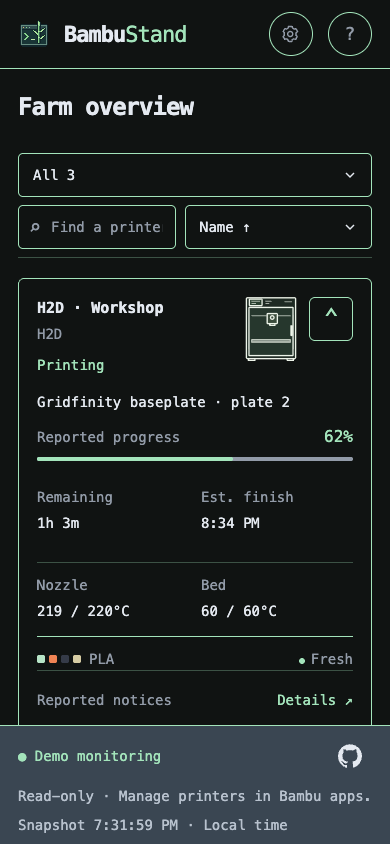
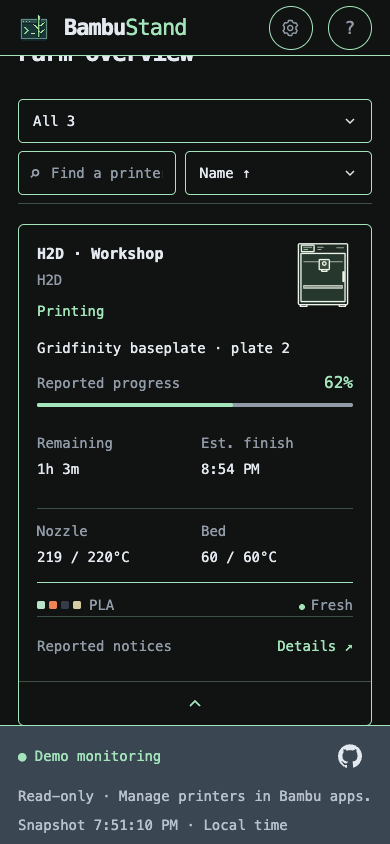
Move mobile card disclosure into a compact footer

diff --git a/internal/webserver/assets/app.js b/internal/webserver/assets/app.js
@@ -128,18 +128,18 @@ function card(p) {
   const action = (text, kind = "name") => `<button data-action="${kind}" data-open="${escapeHTML(p.id)}" aria-haspopup="dialog"${kind === "notices" ? ' data-notices="true"' : ''}>${text}</button>`;
   const expanded = expandedCards.has(p.id);
   const bodyID = `card-body-${encodeURIComponent(p.id)}`;
-  const toggle = `<button class="card-toggle" data-action="expand" data-open="${escapeHTML(p.id)}" aria-expanded="${expanded}" aria-controls="${escapeHTML(bodyID)} ${escapeHTML(bodyID)}-actions" aria-label="${expanded ? "Collapse" : "Expand"} ${escapeHTML(p.name)} card"><span aria-hidden="true">⌄</span></button>`;
-  const heading = `<div class="card-head"><div class="card-identity"><h3>${action(escapeHTML(p.name))}</h3><div class="model">${escapeHTML(p.model || "Unknown model")}</div><span class="pill ${p.attention || !current(p) ? "warn" : p.state === "IDLE" ? "neutral" : ""}">${escapeHTML(label)}</span></div><div class="printer-view">${machine(p)}</div>${toggle}</div>`;
+  const toggle = `<button class="card-toggle" data-action="expand" data-open="${escapeHTML(p.id)}" aria-expanded="${expanded}" aria-controls="${escapeHTML(bodyID)} ${escapeHTML(bodyID)}-actions" aria-label="${expanded ? "Collapse" : "Expand"} ${escapeHTML(p.name)} card"><svg viewBox="0 0 12 8" aria-hidden="true"><path d="m1 1 5 5 5-5"/></svg></button>`;
+  const heading = `<div class="card-head"><div class="card-identity"><h3>${action(escapeHTML(p.name))}</h3><div class="model">${escapeHTML(p.model || "Unknown model")}</div><span class="pill ${p.attention || !current(p) ? "warn" : p.state === "IDLE" ? "neutral" : ""}">${escapeHTML(label)}</span></div><div class="printer-view">${machine(p)}</div></div>`;
   const actions = `<div class="card-actions" id="${escapeHTML(bodyID)}-actions">${p.attention ? action('◇ Attention · view notices', 'notices') : `<span>${p.conditions.some(condition => !condition.hidden) ? 'Reported notices' : 'No active notices'}</span>`}${action('Details ↗', 'details')}</div>`;
   const opening = `<article class="card ${p.attention ? "warning" : ""}${offline ? " offline" : ""}${expanded ? " expanded" : ""}" data-id="${escapeHTML(p.id)}" tabindex="-1" aria-label="Inspect ${escapeHTML(p.name)}, ${escapeHTML(label)}">`;
-  if (offline) return `${opening}${heading}<div class="card-body" id="${escapeHTML(bodyID)}"></div>${actions}</article>`;
+  if (offline) return `${opening}${heading}<div class="card-body" id="${escapeHTML(bodyID)}"></div>${actions}${toggle}</article>`;
   const slots = allSlots(p).filter((s) => s.present !== false),
     nozzle = p.nozzles.find((n) => n.active) || p.nozzles[0];
   const progress = Number.isFinite(p.progress) ? Math.max(0, Math.min(100, p.progress)) : null;
   const idle = p.state === "IDLE";
   const finish = p.state === "RUNNING" && p.remaining != null && Number.isFinite(Date.parse(p.remaining_reported))
     ? new Date(Date.parse(p.remaining_reported) + p.remaining * 60000).toLocaleTimeString(undefined, {hour: "numeric", minute: "2-digit"}) : "Unavailable";
-  return `${opening}${heading}${!current(p) ? '<p class="card-note telemetry-note">Current state unconfirmed · readings are last-known; missing values remain unknown.</p>' : ""}<div class="card-body" id="${escapeHTML(bodyID)}"><div class="job">${idle ? "No active print" : escapeHTML(p.job || "No reported job")}</div>${idle ? "" : `<div class="progress-label"><span>Reported progress</span><strong>${progress === null ? "Unknown" : progress + "%"}</strong></div><div class="progress-track"><span style="width:${progress || 0}%"></span></div><div class="metrics timing"><div>Remaining<strong>${escapeHTML(remaining(p))}</strong></div><div>Est. finish<strong>${finish !== "Unavailable" && (!current(p) || !p.eta_current) ? "Last-known: " : ""}${escapeHTML(finish)}</strong></div></div>`}<div class="metrics"><div>Nozzle<strong>${temperature(nozzle?.temperature)}</strong></div><div>Bed<strong>${temperature(p.bed)}</strong></div></div><div class="card-bottom"><div class="swatches">${slots.slice(0, 4).map(s => swatch(s.color)).join("")}<span>${escapeHTML(slots[0]?.material || "Unknown material")}</span></div><span>${current(p) ? '<i class="green"></i>Fresh' : "◷ Last-known"}</span></div></div>${actions}</article>`;
+  return `${opening}${heading}${!current(p) ? '<p class="card-note telemetry-note">Current state unconfirmed · readings are last-known; missing values remain unknown.</p>' : ""}<div class="card-body" id="${escapeHTML(bodyID)}"><div class="job">${idle ? "No active print" : escapeHTML(p.job || "No reported job")}</div>${idle ? "" : `<div class="progress-label"><span>Reported progress</span><strong>${progress === null ? "Unknown" : progress + "%"}</strong></div><div class="progress-track"><span style="width:${progress || 0}%"></span></div><div class="metrics timing"><div>Remaining<strong>${escapeHTML(remaining(p))}</strong></div><div>Est. finish<strong>${finish !== "Unavailable" && (!current(p) || !p.eta_current) ? "Last-known: " : ""}${escapeHTML(finish)}</strong></div></div>`}<div class="metrics"><div>Nozzle<strong>${temperature(nozzle?.temperature)}</strong></div><div>Bed<strong>${temperature(p.bed)}</strong></div></div><div class="card-bottom"><div class="swatches">${slots.slice(0, 4).map(s => swatch(s.color)).join("")}<span>${escapeHTML(slots[0]?.material || "Unknown material")}</span></div><span>${current(p) ? '<i class="green"></i>Fresh' : "◷ Last-known"}</span></div></div>${actions}${toggle}</article>`;
 }
 // Keep connected card/image elements across polls. Replacing #cards.innerHTML
 // recreates lazy, async-decoded images even when their immutable URL is unchanged.

diff --git a/internal/webserver/assets/index.html b/internal/webserver/assets/index.html
@@ -185,7 +185,7 @@
         The Filament tab shows per-unit reported drying status and remaining minutes. Missing values stay unknown; old readings are last-known. Drying settings describe configuration, and the original AMS has no active dryer. Monitoring cannot start or stop drying.
       </p>
       <p>
-        Filters and sorting preserve your printer selection as updates arrive. The Active filter includes printers last reported as running, independently of availability. The Idle filter includes only currently available online printers explicitly reporting Idle or Finished. Offline, stale, missing, and unknown states are excluded; a finished job does not establish that the build plate is clear. Search matches printer names and models. Each status count reflects that search independently of the selected status. On narrow screens, use the Status selector. Cards start collapsed; use the arrow to expand inline readings or collapse them again. Expansion choices last for this page session, including updates, filtering, sorting, and resizing. Desktop shows full cards. Attention and unavailable-data warnings remain visible when collapsed; the printer name opens Overview.
+        Filters and sorting preserve your printer selection as updates arrive. The Active filter includes printers last reported as running, independently of availability. The Idle filter includes only currently available online printers explicitly reporting Idle or Finished. Offline, stale, missing, and unknown states are excluded; a finished job does not establish that the build plate is clear. Search matches printer names and models. Each status count reflects that search independently of the selected status. On narrow screens, use the Status selector. Cards start collapsed; use the small footer chevron to expand inline readings or collapse them again. Expansion choices last for this page session, including updates, filtering, sorting, and resizing. Desktop shows full cards. Attention and unavailable-data warnings remain visible when collapsed; the printer name opens Overview.
       </p>
       <p>
         Scrolling the farm compacts the header. The filter, search, and sort toolbar

diff --git a/internal/webserver/assets/style.css b/internal/webserver/assets/style.css
@@ -1422,12 +1422,12 @@ footer { gap: 8px 16px; padding: 8px 32px; font-size: .875rem; }
 .card-body { display: flex; flex-direction: column; min-width: 0; }
 .card-toggle { display: none; }
 @media (max-width: 760px) {
-  .card-head { grid-template-columns: minmax(0, 1fr) 60px 44px; gap: 8px; margin-bottom: 0; }
+  .card-head { grid-template-columns: minmax(0, 1fr) 60px; gap: 8px; margin-bottom: 0; }
   .card-head .printer-view, .card-head .printer-view .printer-sprite,
   .card-head .printer-view svg { width: 60px; height: 76px; }
-  .card-toggle { display: inline-flex; align-items: center; justify-content: center; min-width: 44px; min-height: 44px; padding: 0; background: none; border: 1px solid var(--border); border-radius: 6px; color: var(--green); }
-  .card-toggle span { font-size: 1.5rem; line-height: 1; }
-  .card.expanded .card-toggle span { transform: rotate(180deg); }
+  .card-toggle { display: inline-flex; align-items: center; justify-content: center; width: calc(100% + 36px); min-height: 44px; margin: 12px -18px -18px; padding: 0; background: none; border: 0; border-top: 1px solid color-mix(in srgb, var(--border) 30%, transparent); border-radius: 0 0 5px 5px; color: var(--green); }
+  .card-toggle svg { width: 12px; height: 8px; fill: none; stroke: currentColor; stroke-width: 2; }
+  .card.expanded .card-toggle svg { transform: rotate(180deg); }
   .card:not(.expanded) .card-body,
   .card:not(.expanded) .card-actions > span,
   .card:not(.expanded) [data-action="details"] { display: none; }

diff --git a/docs/development/validation.md b/docs/development/validation.md
@@ -7,11 +7,18 @@ This record identifies checks actually performed, their source revisions, observ
 Historical entries were consolidated from the [record at `2e9f74a`](https://github.com/cliffom/bambustand/blob/2e9f74a/docs/development/validation.md). Consolidation adds no new product validation. A local pass reported below is a historical report, not a retained test log or a rerun against the current release. Linked CI runs and repository captures are inspectable evidence; temporary capture paths and user-supplied screenshots without repository links were not archived here. Missing environment or revision details are stated rather than reconstructed. Historical names and compatibility results apply to the revision checked.
 
 
+## Mobile card footer refinement (#187)
+
+- **Scope:** 2026-11-13; v0.11.0 PR #188 follow-up to the owner's screenshot, with uncommitted changes based on `db8e7efecfa0`. Moves mobile disclosure from a boxed control beside the printer image to a full-width bottom footer with a small centered SVG chevron. Desktop stays unchanged.
+- **Method:** Same macOS 27.2.1, Go 1.27.4, Node 24.22.1, Playwright 1.64.1 and Chrome 157.0.8103.78 environment as the entry below; synthetic demo at port 8187. Reran 51 browser units, 36 layout cases plus two compact and four disclosure cases, twelve inspector cases, and 28 theme/layout combinations at the sizes/text settings listed below. Added assertions that the footer is the last card child, below the heading, centered across the card, with a 12×8px icon and at least a 44px tap height. Ran formatting, pinned lint, vet, build, release packaging, documentation and diff checks. Refreshed and visually inspected all four 390×844 mobile captures, including expanded footer visibility and the Gruvbox Dark finished card.
+- **Result:** All checks passed. The small chevron points down when collapsed and up when expanded; the unboxed footer retains keyboard focus, accessible labels/state, touch sizing, warnings and page-session expansion choices. Current captures: [overview](../../assets/screenshots/browser-mobile.png), [expanded footer](../../assets/screenshots/browser-mobile-expanded.png), [offline](../../assets/screenshots/browser-mobile-offline.png), [finished](../../assets/screenshots/browser-idle-filter-mobile.png). Earlier captures remain under `before-footer` names with historical links redirected. README, farm-view/usage guidance, browser Help, UI direction and changelog now describe the footer; desktop/theme/filter, cropped Settings/inspector and TUI captures remain accurate because they do not depict this mobile control. v0.11.0 remains prepared and unpublished; no additional version bump is needed.
+- **Limits:** Synthetic Chromium evidence only; other browsers, physical mobile devices and live hardware remain unverified. Full race tests and vulnerability scan passed on the prior implementation as recorded below; this refinement changes browser markup/style only. Packaging remains locally ad-hoc signed without notarization or Gatekeeper evidence. Temporary logs are unarchived; existing [remaining live checks](#remaining-live-checks) are unchanged.
+
 ## Mobile printer card disclosure (#187)
 
 - **Scope:** 2026-11-13; v0.11.0, uncommitted changes based on `dd52e549d139`. Mobile/narrow browser cards default to identity/status summaries with inline expansion; desktop presentation, telemetry interpretation, offline omissions and notice decisions retain their existing contracts.
 - **Method:** macOS 27.2.1 (26B131) arm64, Go 1.27.4, Node 24.22.1, Playwright 1.64.1 and Chrome 157.0.8103.78. Ran 51 dependency-free browser units, 36 existing layout cases plus two compact scenarios, four new disclosure scenarios (390×844, 760×844, 320×568/200%, 568×320/200%), twelve inspector cases, and 28 theme/layout combinations against synthetic `serve --demo` on port 8187. Disclosure checks cover running, idle, finished, attention, unknown/stale, offline, long names, generic artwork, keyboard activation, focus/image continuity, polling, filtering, sorting, resize and inspector entry. Ran `make fmt-check`, pinned lint, `make test check build vuln-check release`, `make docs-check`, version output and diff checks. Refreshed the three affected 390×844 gallery captures and added an expanded example with the documented capture command/filter; inspected all four. Also inspected temporary 320×568/200% collapsed and 568×320/200% expanded views, and a contact sheet of default/all five alternate desktop theme captures at 1280×1200.
-- **Result:** All listed checks passed; no lint findings or known vulnerabilities. Mobile summaries retain attention and unavailable-data warnings, and expansion remains local to printer identity within the page session. Four macOS/Linux arm64/amd64 archives passed inventory, documentation, helper architecture and signature checks; the binary reports 0.11.0. Initial lint stopped because the executable was absent; installing the pinned tool resolved it. Initial packaging rejected the new changelog heading's leading `v`; matching the repository heading format resolved it. Updated README, usage/farm-view guidance, browser Help, UI direction and contributor guidance. Current captures: [mobile overview](../../assets/screenshots/browser-mobile.png), [expanded](../../assets/screenshots/browser-mobile-expanded.png), [offline](../../assets/screenshots/browser-mobile-offline.png), [Gruvbox Dark Idle](../../assets/screenshots/browser-idle-filter-mobile.png). Preserved prior mobile captures under `before-187` names and redirected affected historical evidence. Desktop/theme/filter captures remain accurate because full cards and controls retain their presentation; cropped Settings/inspector and TUI help/captures do not depict mobile farm disclosure and remain accurate.
+- **Result:** All listed checks passed; no lint findings or known vulnerabilities. Mobile summaries retain attention and unavailable-data warnings, and expansion remains local to printer identity within the page session. Four macOS/Linux arm64/amd64 archives passed inventory, documentation, helper architecture and signature checks; the binary reports 0.11.0. Initial lint stopped because the executable was absent; installing the pinned tool resolved it. Initial packaging rejected the new changelog heading's leading `v`; matching the repository heading format resolved it. Updated README, usage/farm-view guidance, browser Help, UI direction and contributor guidance. Current captures: [mobile overview](../../assets/screenshots/browser-mobile-before-footer.png), [expanded](../../assets/screenshots/browser-mobile-expanded-before-footer.png), [offline](../../assets/screenshots/browser-mobile-offline-before-footer.png), [Gruvbox Dark Idle](../../assets/screenshots/browser-idle-filter-mobile-before-footer.png). Preserved prior mobile captures under `before-187` names and redirected affected historical evidence. Desktop/theme/filter captures remain accurate because full cards and controls retain their presentation; cropped Settings/inspector and TUI help/captures do not depict mobile farm disclosure and remain accurate.
 - **Limits:** Synthetic Chromium checks only; Safari/Firefox, physical mobile devices, live cloud/hardware and OS notification presentation remain unverified. Enlarged text in very short/narrow windows requires the existing page/workspace scrolling fallback; inspection does not establish every scroll position or font. Temporary logs and additional inspection captures under `/private/tmp/187-*` are unarchived. Packaging is locally ad-hoc signed, without notarization or clean-machine Gatekeeper evidence; no release is published. Existing [remaining live checks](#remaining-live-checks) retain their scope.
 
 ## Status toolbar spacing and mobile label refinement (#185)

diff --git a/docs/development/ui-direction.md b/docs/development/ui-direction.md
@@ -85,7 +85,7 @@ Compact the branding/Settings/Help header when the farm workspace scrolls down a
 
 Use one primary browser status toolbar (All, Active, Idle, Attention, Unavailable), with search and sort. Counts intersect each status predicate with the current name/model search independently of the selected status. Clearing search restores farm-wide counts. Put every desktop status total in a circular, theme-colored outline badge, with room for zero and multi-digit totals at enlarged text sizes. Give desktop status buttons horizontal padding to separate neighboring labels and badges. On narrow screens show a full-width Status selector instead of the desktop buttons, with identical counts and a visually hidden accessible label. Status and Sort use consistently sized, centered, inset chevrons with reserved text space. Omit whole-farm summary panels and visible duplicate result counts; announce results through a visually hidden live region. Keep snapshot/local-time metadata in the footer. Idle includes reported Idle or Finished and requires current telemetry, an available browser feed and a connected session; exclude unknown/offline/stale readings. Active retains last-reported running-state membership; attention may overlap other groups. Never claim physical readiness. Empty results explain the query/status intersection and offer Clear search and/or Show all statuses; restore focus to search or the visible status control. If a focused printer leaves the view, return focus to the visible active status control.
 
-Cards consolidate name, model and textual status on the left with top-aligned decorative artwork on the right. At widths up to 760 CSS pixels, default to a collapsed identity/status summary with an accessible 44px expand/collapse arrow; expanding reveals inline telemetry and Details. Preserve each printer’s expansion choice through polling, filtering, sorting and resizing within the page session; desktop always shows full cards. Keep attention actions and current-state-unconfirmed warnings visible when collapsed, and retain name-to-Overview access. Explicitly offline cards remain free of telemetry even when expanded. Keep idle cards short with No active print and available telemetry. Name and Details actions open Overview; the separate attention action opens Notices, as do system notifications. Keep action targets at least 44 CSS pixels at default text. Preserve each focused action and connected artwork across polls. Use restrained theme-derived borders. Keep the inspector tabs in a single horizontally scrollable row; all remain reachable by touch and keyboard. At narrow widths/enlarged text, omit decorative header art/model, constrain the scrollable title, and reserve space for readable panel content and Close. The approved [Design study 02](../reference/design/dashboard-study-02.html) is a synthetic visual reference, not production or hardware evidence.
+Cards consolidate name, model and textual status on the left with top-aligned decorative artwork on the right. At widths up to 760 CSS pixels, default to a collapsed identity/status summary with a small centered chevron in a full-width footer with an accessible 44px-high expand/collapse target; expanding reveals inline telemetry and Details. Preserve each printer’s expansion choice through polling, filtering, sorting and resizing within the page session; desktop always shows full cards. Keep attention actions and current-state-unconfirmed warnings visible when collapsed, and retain name-to-Overview access. Explicitly offline cards remain free of telemetry even when expanded. Keep idle cards short with No active print and available telemetry. Name and Details actions open Overview; the separate attention action opens Notices, as do system notifications. Keep action targets at least 44 CSS pixels at default text. Preserve each focused action and connected artwork across polls. Use restrained theme-derived borders. Keep the inspector tabs in a single horizontally scrollable row; all remain reachable by touch and keyboard. At narrow widths/enlarged text, omit decorative header art/model, constrain the scrollable title, and reserve space for readable panel content and Close. The approved [Design study 02](../reference/design/dashboard-study-02.html) is a synthetic visual reference, not production or hardware evidence.
 
 For devices explicitly reported offline (`online === false`), show only name, model, decorative image/fallback, a textual Offline label, and any attention warning on the browser card. Omit job/progress, time estimates, temperatures, and material details. Use a dashed border and desaturated, dimmed image while retaining readable text, theme contrast, keyboard focus, and access to the inspector. Preserve image/card identity through online/offline transitions. Stale/missing telemetry and cloud/browser-feed disconnection do not independently select this layout; offline never establishes fault resolution.
 

diff --git a/docs/user/farm-view.md b/docs/user/farm-view.md
@@ -53,7 +53,7 @@ Every sort first groups printers in this order:
 2. **Inactive / idle:** online printers with reported `IDLE` or `FINISH` state.
 3. **Offline:** devices reported offline, regardless of their last-known state.
 
-The selected sort applies within each group. The local web dashboard uses the same grouping with its Name, Attention, and State sorts; browser filters/sorts remain session-local. On narrow browser screens, printer cards start collapsed; the arrow reveals inline readings, while the name opens Overview. Attention links and unavailable-data warnings stay visible when collapsed. Grouping uses the device online flag and the existing reported state, independently of telemetry freshness or cloud connectivity. Stale states remain last-known, missing states remain unknown, and a disconnected cloud link does not infer that a printer is offline or idle. Telemetry and device updates refresh the ordering while preserving the selected printer's identity, panel focus, and details scroll.
+The selected sort applies within each group. The local web dashboard uses the same grouping with its Name, Attention, and State sorts; browser filters/sorts remain session-local. On narrow browser screens, printer cards start collapsed; the footer chevron reveals inline readings, while the name opens Overview. Attention links and unavailable-data warnings stay visible when collapsed. Grouping uses the device online flag and the existing reported state, independently of telemetry freshness or cloud connectivity. Stale states remain last-known, missing states remain unknown, and a disconnected cloud link does not infer that a printer is offline or idle. Telemetry and device updates refresh the ordering while preserving the selected printer's identity, panel focus, and details scroll.
 
 Unselected offline rows use the warning color (amber in the default theme). Selected offline rows use the theme's contrasting selection text/background colors. Offline rows show only the printer name and `Offline` link status; all telemetry columns are blank. Compact layouts show `Offline` in the state column because the link column is hidden.
 

diff --git a/README.md b/README.md
@@ -22,7 +22,7 @@ A keyboard-driven workspace for your farm: move between printers, inspect job de
 
 ### Web browser dashboard
 
-A visual farm overview with searchable, filterable printer cards, model illustrations, progress, temperatures, and filament. Use Details or the printer name for an Overview with job progress, independent time estimates, and temperature tiles; inspect selectable AMS spool racks in Filament, or review reported conditions in Notices. Paused, stopped, canceled and confirmed finished prints have shared outcome summaries; individual codes and local decisions remain accessible. A separate attention action opens Notices. Status counts follow name/model search; phones use a Status selector and compact printer cards with an arrow to expand inline readings. Unknown readings stay unknown. Stale readings are labeled last-known; offline cards show just printer identity and inactive artwork, with reading metadata and notices available through inspection.
+A visual farm overview with searchable, filterable printer cards, model illustrations, progress, temperatures, and filament. Use Details or the printer name for an Overview with job progress, independent time estimates, and temperature tiles; inspect selectable AMS spool racks in Filament, or review reported conditions in Notices. Paused, stopped, canceled and confirmed finished prints have shared outcome summaries; individual codes and local decisions remain accessible. A separate attention action opens Notices. Status counts follow name/model search; phones use a Status selector and compact printer cards with a footer chevron to expand inline readings. Unknown readings stay unknown. Stale readings are labeled last-known; offline cards show just printer identity and inactive artwork, with reading metadata and notices available through inspection.
 
 ![Browser dashboard with All, Active and Idle status tabs, circular totals, printing and paused printers, a simplified offline card, and the bottom status bar.](assets/screenshots/browser.png)
 

diff --git a/docs/user/usage.md b/docs/user/usage.md
@@ -169,7 +169,7 @@ The [scrolled desktop view](../../assets/screenshots/browser-scrolled.png) shows
 
 The [Appearance and notification settings](../../assets/screenshots/browser-themes.png) capture above shows the theme selector and Enable/Test/Disable controls with automatic browser notifications off. The [Idle filter](../../assets/screenshots/browser-idle-filter.png) and [mobile Status selector in Gruvbox Dark](../../assets/screenshots/browser-idle-filter-mobile.png) captures use a separate synthetic finished-printer scenario; it does not establish that a printer is physically ready.
 
-On screens up to 760 CSS pixels wide, cards start collapsed to the name, model, image, and status. Use the arrow to expand or collapse inline readings; the choice stays with each printer during this page session, including filtering, sorting, updates, and resizing. Desktop shows full cards. Attention links and unavailable-data warnings remain visible when collapsed; the printer name still opens Overview. Offline cards never add telemetry when expanded.
+On screens up to 760 CSS pixels wide, cards start collapsed to the name, model, image, and status. Use the small chevron in the card footer to expand or collapse inline readings; the choice stays with each printer during this page session, including filtering, sorting, updates, and resizing. Desktop shows full cards. Attention links and unavailable-data warnings remain visible when collapsed; the printer name still opens Overview. Offline cards never add telemetry when expanded.
 
 [Expanded mobile card](../../assets/screenshots/browser-mobile-expanded.png) shows the inline readings.
 

diff --git a/docs/CHANGELOG.md b/docs/CHANGELOG.md
@@ -4,7 +4,7 @@ Release changes and upgrade notes are recorded below. Names and scope describe e
 
 ## 0.11.0 — Expandable mobile printer cards
 
-- Mobile browser cards start with printer identity, image, and textual status; an accessible arrow expands or collapses inline telemetry and Details.
+- Mobile browser cards start with printer identity, image, and textual status; an accessible footer chevron expands or collapses inline telemetry and Details.
 - Expansion choices follow printers through page-session updates, filtering, sorting, and resizing. Desktop cards stay fully visible; attention and unavailable-data warnings remain visible when collapsed, and offline cards retain their simplified presentation.
 
 ## 0.10.1
